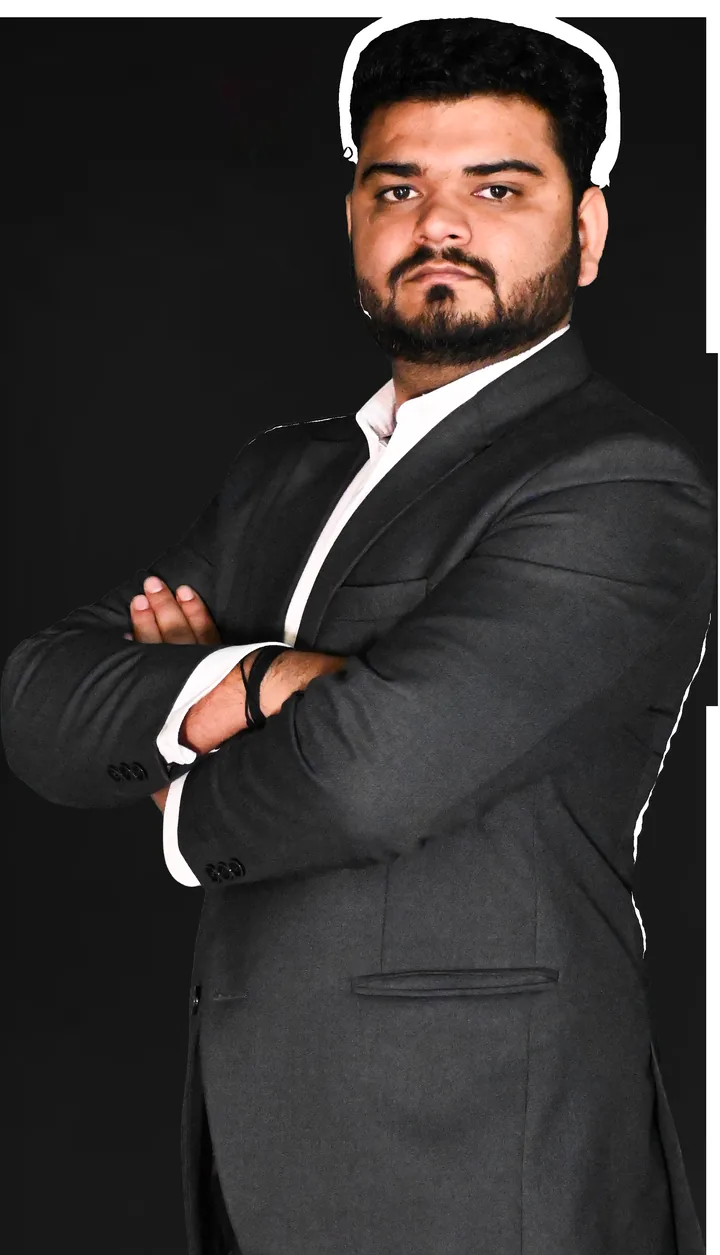
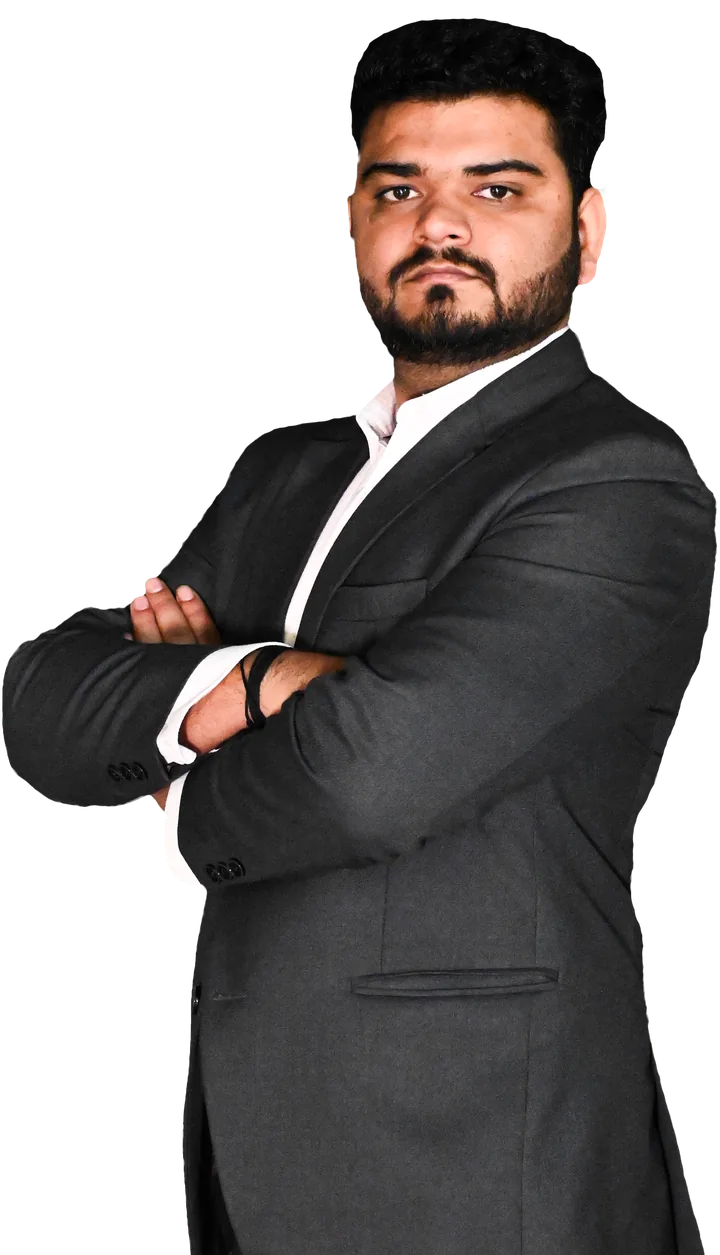
fix mobile hero transparency and nav tracking

diff --git a/components/nav.tsx b/components/nav.tsx
@@ -2,7 +2,7 @@
 
 import { motion } from "framer-motion";
 import { ExternalLink, Mail } from "lucide-react";
-import { useEffect, useState } from "react";
+import { useEffect, useRef, useState } from "react";
 import { profile } from "@/lib/portfolio-data";
 
 const links = [
@@ -16,6 +16,8 @@ const links = [
 
 export function Nav() {
   const [activeSection, setActiveSection] = useState("#top");
+  const linkStripRef = useRef<HTMLDivElement>(null);
+  const linkRefs = useRef<Record<string, HTMLAnchorElement | null>>({});
 
   useEffect(() => {
     const sectionIds = ["#top", ...links.map((link) => link.href)];
@@ -45,6 +47,22 @@ export function Nav() {
     };
   }, []);
 
+  useEffect(() => {
+    const strip = linkStripRef.current;
+    if (!strip) return;
+
+    if (activeSection === "#top") {
+      strip.scrollTo({ left: 0, behavior: "smooth" });
+      return;
+    }
+
+    const activeLink = linkRefs.current[activeSection];
+    if (!activeLink) return;
+
+    const targetLeft = activeLink.offsetLeft - strip.clientWidth / 2 + activeLink.clientWidth / 2;
+    strip.scrollTo({ left: Math.max(0, targetLeft), behavior: "smooth" });
+  }, [activeSection]);
+
   return (
     <motion.header
       initial={{ y: 32, opacity: 0 }}
@@ -60,9 +78,12 @@ export function Nav() {
         >
           Home
         </a>
-        <div className="no-scrollbar flex min-w-0 flex-1 items-center gap-1 overflow-x-auto px-1">
+        <div ref={linkStripRef} className="no-scrollbar flex min-w-0 flex-1 items-center gap-1 overflow-x-auto px-1">
           {links.map((link) => (
             <a
+              ref={(element) => {
+                linkRefs.current[link.href] = element;
+              }}
               key={link.href}
               href={link.href}
               data-active={activeSection === link.href}
